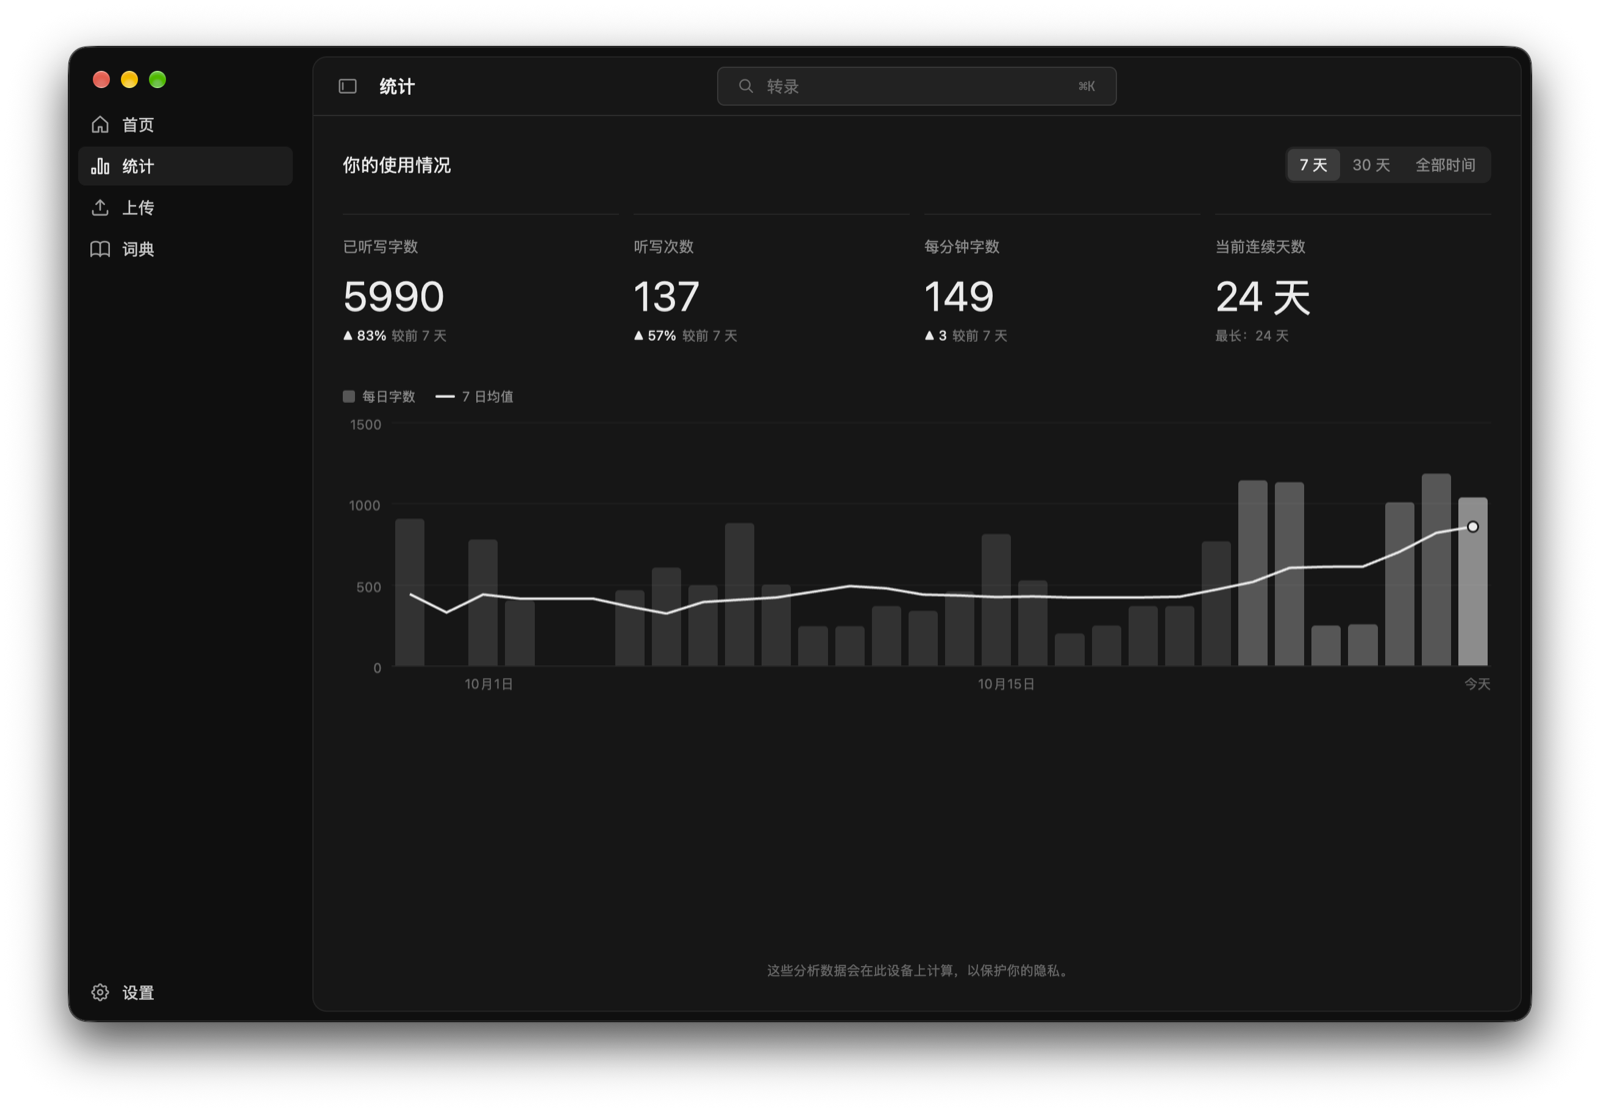
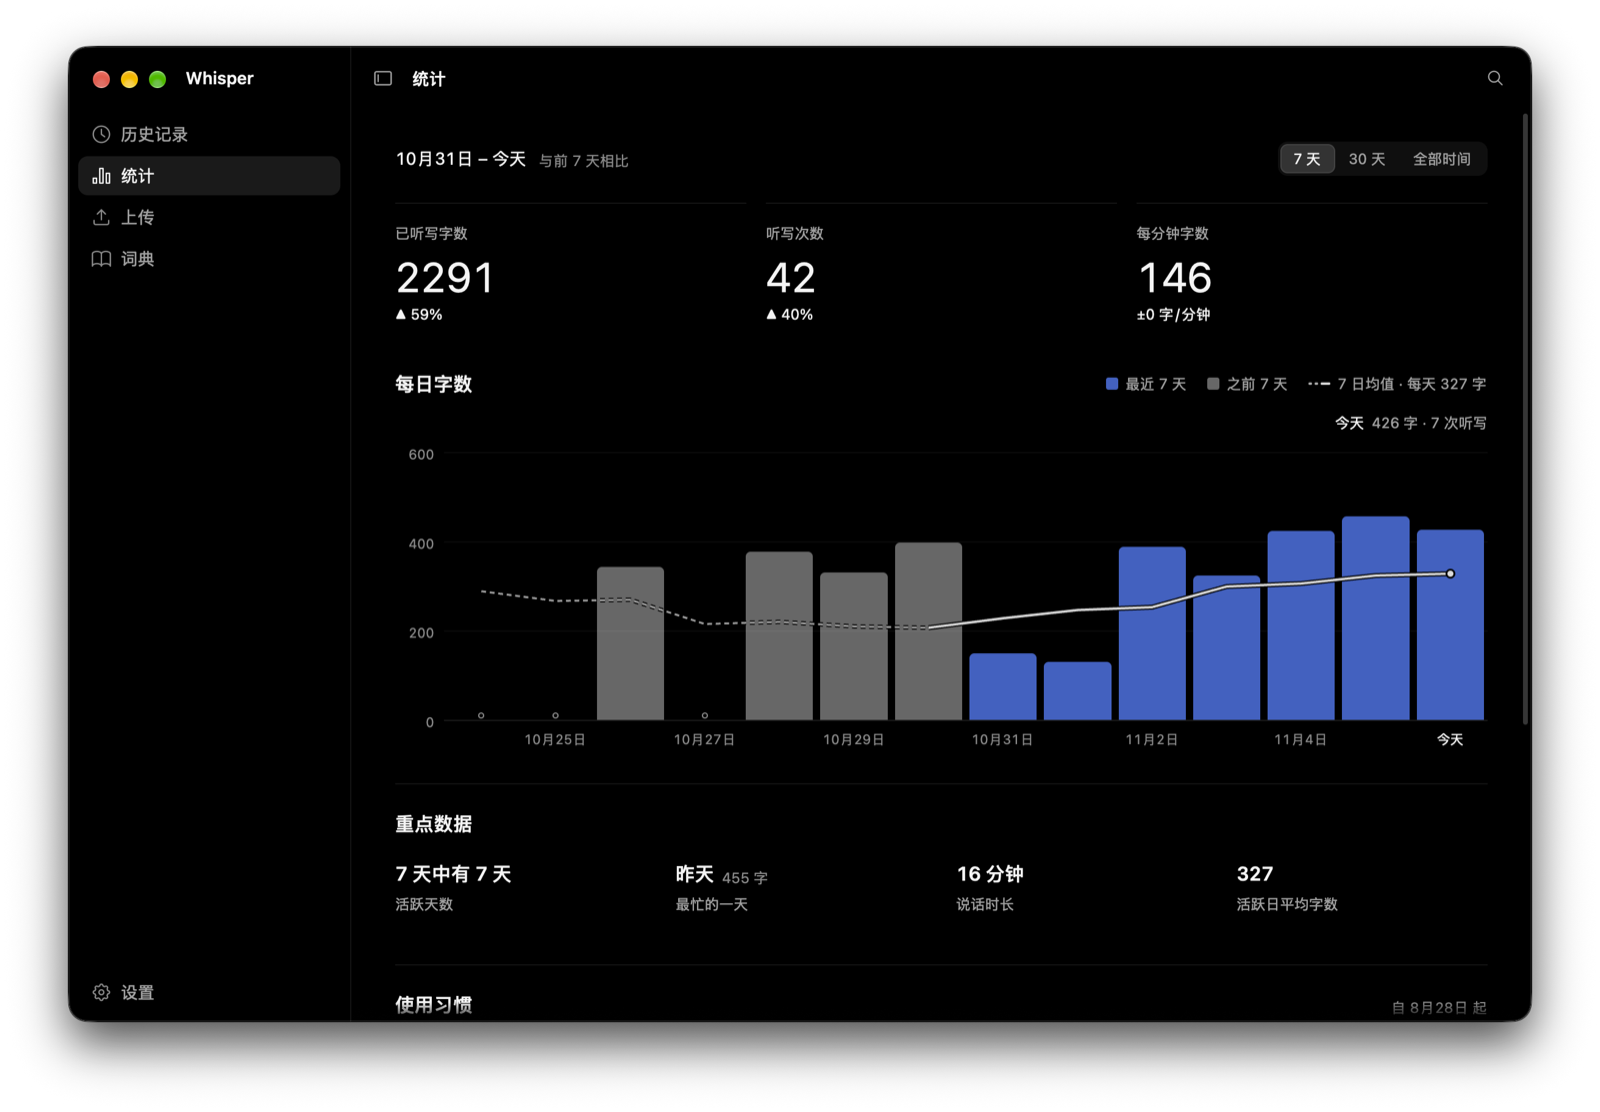
docs(readme): sync features and screenshots with the redesigned UI
Describe the pill's timer and kept recordings, Test Connection, undoable
removals, the new Insights sections and keyboard and VoiceOver support.
Retake every screenshot from the current UI with sample data, and list
WHISPER_DEV_SCENE among the environment variables.

diff --git a/README.md b/README.md
@@ -22,24 +22,31 @@ typing in.
 - **Dictate anywhere.** Trigger with Globe/Fn, a single modifier such as Right
   Command, or any key combination. Double-tap a single key for hands-free
   recording (key combinations toggle with one press), or hold to talk. A
-  floating recording pill shows a live waveform; click it to finish, hover for a
-  cancel button, or press Escape to cancel.
+  floating recording pill shows a live waveform and the elapsed time, with a
+  cancel button beside it; click the pill to finish or press Escape to cancel.
+  If the server fails, the recording is kept so you can resend it.
 - **Self-hosted models.** Speech recognition goes to your own
   `/audio/transcriptions` endpoint; optional cleanup goes to a
   `/chat/completions` endpoint, with an editable prompt and a Prompt Studio to
-  test it.
+  test it. Test Connection checks each server and lists its models.
 - **Gets better with use.** A dictionary supplies spelling hints, corrections
   you make right after a paste are learned, and Snippets expand short phrases
-  into longer text.
-- **History.** Search with Cmd+K, view raw transcripts, retry from saved audio,
-  and set how long audio and transcripts are kept.
-- **File transcription.** Transcribe a single audio or video file, or a batch.
-- **Insights.** Words, dictations, words per minute and streaks for the last
-  7 or 30 days or all time, each compared with the previous period, plus a
-  daily trend chart with a 7-day average, all computed on device.
+  into longer text. Removing a word or snippet can be undone.
+- **History.** Search with Cmd+K, open raw transcripts, re-transcribe from
+  saved audio, undo a delete, and set how long audio and transcripts are kept.
+- **File transcription.** Drop in one audio or video file, or a batch; each
+  transcript is saved to History.
+- **Insights.** Words, dictations and words per minute for the last 7 or 30
+  days or all time, each compared with the previous period; a trend chart that
+  sets the period beside the one before it; highlights such as active days,
+  busiest day and time spoken; and a Habits section with your streak calendar
+  and weekly rhythm. Everything is computed on device.
 - **Fits into macOS.** Menu bar icon, standard app menu, start at login
   (macOS 13+), optional media pause while recording, English and Simplified
   Chinese UI, and light, dark or automatic themes.
+- **Keyboard and VoiceOver.** Every control is reachable with Tab and named for
+  VoiceOver, lists and charts move with the arrow keys, and animations follow
+  the macOS Reduce motion setting.
 
 Data lives in `~/Library/Application Support/com.softmaxe.whisper`.
 
@@ -49,11 +56,11 @@ The screenshots use sample data.
 
 | History | Insights |
 | --- | --- |
-| ![History grouped by day, with search](docs/images/en/home.png) | ![Words, words per minute and streaks compared with the previous period, and a daily trend chart](docs/images/en/insights.png) |
+| ![History grouped by day, with search](docs/images/en/home.png) | ![Words, dictations and words per minute compared with the previous period, a trend chart across both periods, and highlights](docs/images/en/insights.png) |
 | **Dictionary** | **Speech-to-text settings** |
-| ![Dictionary words used as spelling hints](docs/images/en/dictionary.png) | ![Self-hosted speech server URL and model](docs/images/en/settings.png) |
+| ![Dictionary words with their source, uses and last use](docs/images/en/dictionary.png) | ![Self-hosted speech server URL, connection test and model](docs/images/en/settings.png) |
 | **File transcription** | |
-| ![A finished transcript beside the transcription settings and a completed batch queue](docs/images/en/upload.png) | |
+| ![The file drop target above the transcription settings and where transcripts are saved](docs/images/en/upload.png) | |
 
 ## Install
 
@@ -145,6 +152,7 @@ Accessibility access for automatic paste and the Globe/modifier listeners.
 | `WHISPER_USER_DATA_DIR` | Use another data directory (tests, side-by-side runs) |
 | `WHISPER_HELPERS_DIR` | Load the native helpers from another directory |
 | `WHISPER_SKIP_NATIVE_BUILD` | Skip building the native helpers in `build.rs` |
+| `WHISPER_DEV_SCENE` | Debug builds: open a fixed view at launch for screenshots, such as `insights`, `settings:speech` or `pill:recording` (values in `src/ui/dev_scene.rs`) |
 | `RUST_LOG` | Log filter, for example `info,whisper::native=debug` |
 
 ## Layout

diff --git a/README.zh-CN.md b/README.zh-CN.md
@@ -19,19 +19,23 @@
 
 - **随处听写。** 可用 Globe/Fn 键、单个修饰键（如右 Command）或任意组合键触发。
   单键双击进入免手持录音（组合键按一次即开始或结束），或按住说话。录音时会出现
-  悬浮条，显示实时波形；点击悬浮条结束录音，悬停时可点取消按钮，按 Esc 取消。
+  悬浮条，显示实时波形和已录时长，旁边有取消按钮；点击悬浮条结束录音，按 Esc 取消。
+  如果服务器出错，录音会被保留，可以重新发送。
 - **自托管模型。** 语音识别请求发送到你自己的 `/audio/transcriptions` 接口；可选的
   文本整理请求发送到 `/chat/completions` 接口，提示词可编辑，并可在 Prompt Studio
-  中测试。
+  中测试。“测试连接”可检查每个服务器并列出它的模型。
 - **越用越准。** 词典为识别提供拼写提示；粘贴后立即做出的修改会被自动学习；
-  片段（Snippets）可以把短语展开为更长的文本。
-- **历史记录。** 用 Cmd+K 搜索、查看原始转录、用保存的音频重试，并设置音频和转录的
-  保留时长。
-- **文件转录。** 可转录单个音频或视频文件，也可批量转录。
-- **统计。** 最近 7 天、30 天或全部时间的字数、听写次数、每分钟字数和连续天数，
-  每项都与上一周期对比，并附带每日趋势图和 7 日均线，全部在本机计算。
+  片段（Snippets）可以把短语展开为更长的文本。删除词条或片段后可以撤销。
+- **历史记录。** 用 Cmd+K 搜索、查看原始转录、用保存的音频重新转录、撤销删除，
+  并设置音频和转录的保留时长。
+- **文件转录。** 拖入单个音频或视频文件，也可批量转录；每份转录都会保存到历史记录。
+- **统计。** 最近 7 天、30 天或全部时间的字数、听写次数和每分钟字数，每项都与
+  上一周期对比；趋势图把当前周期与上一周期并排显示；亮点包括活跃天数、最忙的一天
+  和说话时长；“习惯”部分展示连续天数日历和每周节奏。全部在本机计算。
 - **融入 macOS。** 菜单栏图标、标准应用菜单、开机启动（macOS 13+）、可选在录音时暂停媒体播放、
   英文和简体中文界面，以及浅色、深色或自动主题。
+- **键盘与旁白。** 所有控件都能用 Tab 访问并带有旁白（VoiceOver）名称，列表和图表
+  可用方向键浏览，动画遵循 macOS 的“减弱动态效果”设置。
 
 数据保存在 `~/Library/Application Support/com.softmaxe.whisper`。
 
@@ -41,11 +45,11 @@
 
 | 历史记录 | 统计 |
 | --- | --- |
-| ![按天分组的历史记录，支持搜索](docs/images/zh/home.png) | ![字数、每分钟字数和连续天数的环比，以及每日趋势图](docs/images/zh/insights.png) |
+| ![按天分组的历史记录，支持搜索](docs/images/zh/home.png) | ![字数、听写次数和每分钟字数的环比，跨两个周期的趋势图，以及亮点](docs/images/zh/insights.png) |
 | **词典** | **语音转文字设置** |
-| ![作为拼写提示的词典词条](docs/images/zh/dictionary.png) | ![自托管语音服务的地址和模型](docs/images/zh/settings.png) |
+| ![词典词条及其来源、使用次数和最近使用时间](docs/images/zh/dictionary.png) | ![自托管语音服务的地址、连接测试和模型](docs/images/zh/settings.png) |
 | **文件转录** | |
-| ![转录完成的文字稿，旁边是转录设置和已完成的批量队列](docs/images/zh/upload.png) | |
+| ![文件拖放区，下方是转录设置和转录的保存位置](docs/images/zh/upload.png) | |
 
 ## 安装
 
@@ -122,6 +126,7 @@ scripts/bundle-macos.sh      # release build -> dist/Whisper.app (ad-hoc signed)
 | `WHISPER_USER_DATA_DIR` | 使用其他数据目录（测试、并行运行） |
 | `WHISPER_HELPERS_DIR` | 从其他目录加载原生辅助程序 |
 | `WHISPER_SKIP_NATIVE_BUILD` | 跳过 `build.rs` 中的原生辅助程序构建 |
+| `WHISPER_DEV_SCENE` | 仅 debug 构建：启动时打开固定界面用于截图，例如 `insights`、`settings:speech` 或 `pill:recording`（可选值见 `src/ui/dev_scene.rs`） |
 | `RUST_LOG` | 日志过滤，例如 `info,whisper::native=debug` |
 
 ## 目录结构
